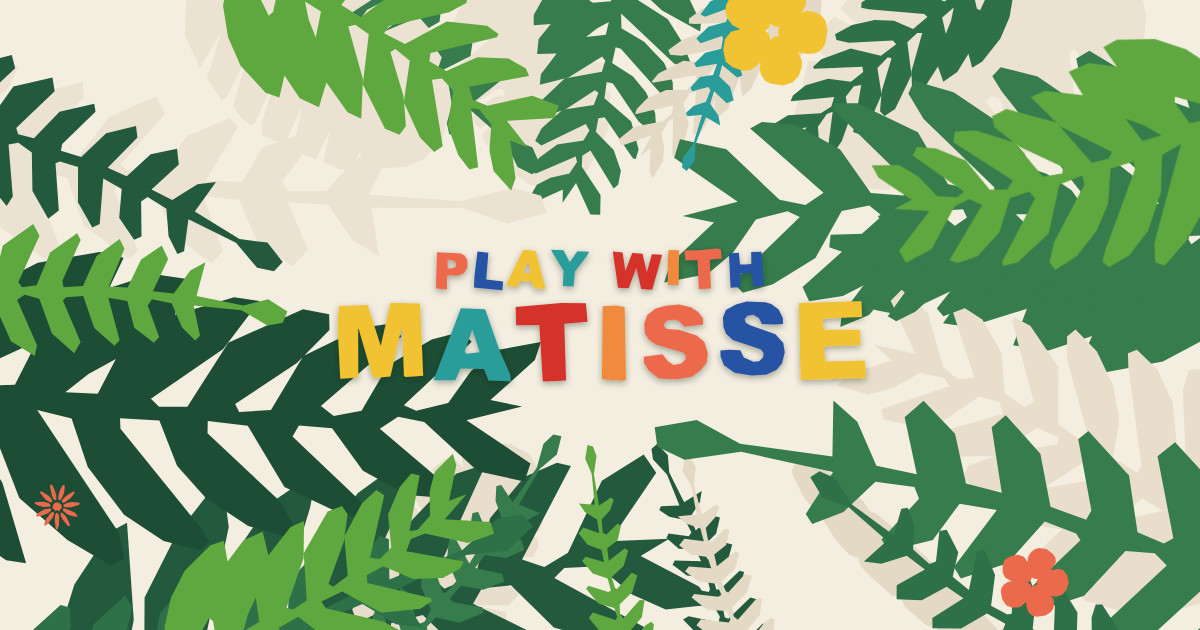
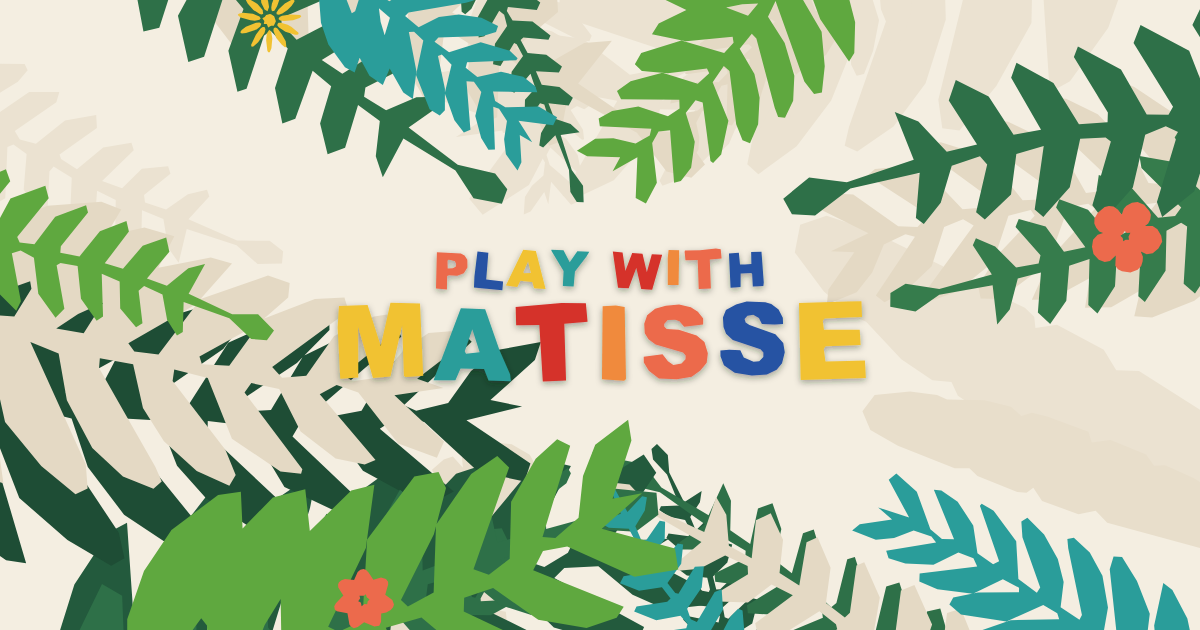
Play with Matisse: keep each intro leaf the same at every screen size
All intro pieces used to share one random sequence, and some draws only happened
for some screen sizes, so a key such as L1-0 became a different leaf (and a
different colour) on other screens and in the OG image. Each piece now reads its
own values from src/intro-pieces.js, recorded from the hand-tuned 1440x900 layout,
so that layout is unchanged and every key is the same leaf everywhere. The colours
seen in the editor are pinned in src/intro-layout.js, and editor saves pin them too.
OG image re-rendered.

diff --git a/play-with-matisse/src/intro-pieces.js b/play-with-matisse/src/intro-pieces.js
@@ -1,0 +1,41 @@
+// Fixed random values for every intro piece, recorded from the 1440 × 900 layout that was hand-tuned in
+// scripts/intro-editor.html. Each piece reads only its own list, so a piece is the same leaf (shape, angle,
+// length, width, flip, sway) at every screen size; only where it sits follows the screen.
+// Leaves: edge, angle, shape, length, reach, green, paper, sway duration, sway delay, sway angle, width, flip, spare.
+// Blossoms: edge, inset, shape, size, rotation, sway duration, sway delay, sway angle, spare. Layers: "off<n>".
+export default {
+  "off0": [0.6248957152],
+  "L0-0": [0.016394069, 0.6599052059, 0.3436766379, 0.6304582418, 0.5284409693, 0.7139804135, 0.5, 0.0224253053, 0.7014039333, 0.8461726424, 0.4660332776, 0.3720398727, 0.7428198592],
+  "L0-1": [0.7604583118, 0.4591073296, 0.7441075626, 0.6506668963, 0.4729891147, 0.8688313758, 0.0403097144, 0.0466259955, 0.0961075765, 0.9441514271, 0.5652425736, 0.2927845498, 0.9186590856],
+  "L0-2": [0.8758449464, 0.9498731154, 0.6271961699, 0.3464222888, 0.4084880007, 0.6310718644, 0.5, 0.3232283075, 0.8486157497, 0.4684933142, 0.6705325553, 0.2397124537, 0.7065972318],
+  "L0-3": [0.5895409165, 0.9253815406, 0.2617151102, 0.288456446, 0.075546219, 0.0962201697, 0.5, 0.8460584555, 0.8200596187, 0.5077368962, 0.3657409186, 0.7686793033, 0.4285137479],
+  "L0-4": [0.5542248783, 0.7309709489, 0.8885008625, 0.6930052203, 0.0461910937, 0.8889201437, 0.692146328, 0.4965624081, 0.0781402874, 0.7107119872, 0.6125637745, 0.4726612004, 0.4494613952],
+  "L0-5": [0.5264834964, 0.0297389296, 0.8960840977, 0.0152133543, 0.2738310732, 0.888764766, 0.3758649586, 0.7290672315, 0.4591372621, 0.8834318221, 0.7330632906, 0.5915810391, 0.5296245327],
+  "L0-6": [0.6623571769, 0.786808664, 0.1810128896, 0.5738626814, 0.9012227424, 0.4249058361, 0.9525729551, 0.0134028695, 0.376643921, 0.8466464342, 0.3712787237, 0.086157433, 0.5910055891],
+  "L0-7": [0.8206804472, 0.703952088, 0.6853974108, 0.2875022297, 0.0459868328, 0.7507892891, 0.1917111247, 0.4335965381, 0.0719523614, 0.5066242565, 0.2189206595, 0.8308477898, 0.3046859293],
+  "L0-8": [0.7312352809, 0.857239594, 0.1843579754, 0.6158458695, 0.4512333991, 0.0777581946, 0.953880765, 0.3687122825, 0.6866085953, 0.9247463688, 0.2689909495, 0.4797256226, 0.9549576489],
+  "L0-9": [0.1926097141, 0.2687331242, 0.3110721698, 0.4976379254, 0.2523688087, 0.0967426435, 0.5, 0.5282005819, 0.4426411362, 0.5282795723, 0.8528621211, 0.9272299036, 0.8011994374],
+  "L0-10": [0.5863321603, 0.390980354, 0.5372679229, 0.3850757133, 0.1362494221, 0.2639229072, 0.012723994, 0.6462397831, 0.6847196103, 0.4786303069, 0.3219712346, 0.819427086, 0.4729385024],
+  "L0-11": [0.8556216229, 0.0891021905, 0.9861141958, 0.2722771228, 0.4579951901, 0.6729113406, 0.5, 0.5204303998, 0.0317614791, 0.3503869451, 0.4811957888, 0.042631469, 0.901606807],
+  "off1": [0.3487885816],
+  "L1-0": [0.7711717784, 0.6967390666, 0.5891038161, 0.7995898176, 0.4161104241, 0.4441782839, 0.6609024575, 0.6159772812, 0.5638557682, 0.4756472111, 0.5956559444, 0.8745148107, 0.4055590576],
+  "L1-1": [0.3983307157, 0.9653635363, 0.9026498175, 0.5846790876, 0.7641629006, 0.4545637476, 0.9871820472, 0.3273272177, 0.2392347883, 0.3458434292, 0.3230551735, 0.1103820936, 0.2222291571],
+  "L1-2": [0.009823211, 0.2255045751, 0.3427613946, 0.3857833401, 0.7297901304, 0.1308702559, 0.5, 0.8639256211, 0.9509016254, 0.0703287059, 0.525682417, 0.4610726999, 0.0991240276],
+  "L1-3": [0.8465718252, 0.7499414065, 0.2282634436, 0.8709357723, 0.2542709613, 0.2360232428, 0.5, 0.5191895328, 0.8881204987, 0.0579335524, 0.0249167883, 0.6617771818, 0.9415578498],
+  "L1-4": [0.409956767, 0.8662091927, 0.7884443458, 0.7460515348, 0.7540241778, 0.3687501911, 0.5, 0.0075762027, 0.7495897028, 0.7586071561, 0.8669301672, 0.6588682551, 0.0883301154],
+  "L1-5": [0.2341359886, 0.8840810137, 0.1163936364, 0.4743423345, 0.4587457979, 0.4847391343, 0.5, 0.986868883, 0.2027616554, 0.4223621038, 0.5603413482, 0.7246156584, 0.4874914952],
+  "L1-6": [0.8050362382, 0.6484116511, 0.2932261201, 0.0803522833, 0.9587118335, 0.2074489971, 0.5, 0.1765282967, 0.3923648556, 0.200556061, 0.8064841542, 0.3081427373, 0.5429832607],
+  "L1-7": [0.1377467632, 0.4229343771, 0.6200654749, 0.8438391397, 0.8607933067, 0.3020410873, 0.5, 0.1446252896, 0.7139651377, 0.8335720212, 0.0616651485, 0.7096508923, 0.872186475],
+  "L1-8": [0.2537406525, 0.7263892645, 0.5486296958, 0.9944018726, 0.3909677737, 0.1340218291, 0.0747000712, 0.8019326436, 0.0553148007, 0.1496176983, 0.2260044343, 0.0680819855, 0.1781863859],
+  "off2": [0.9156342759],
+  "L2-0": [0.5508822333, 0.9081481674, 0.8644869863, 0.0722790228, 0.7685407628, 0.4076122881, 0.5, 0.4670127532, 0.1234049846, 0.1107080642, 0.781260134, 0.5079783229, 0.3705790529],
+  "L2-1": [0.7099243458, 0.1864106862, 0.4716164509, 0.3614586827, 0.2034124485, 0.7868982307, 0.5, 0.8318357153, 0.4538394315, 0.6413320487, 0.4922705146, 0.2347555601, 0.4055960237],
+  "L2-2": [0.542436345, 0.7813551736, 0.1209279483, 0.0814813247, 0.8238608958, 0.3051606123, 0.5, 0.0071619328, 0.9001438573, 0.6735097126, 0.9527959418, 0.2181239836, 0.3361857226],
+  "L2-3": [0.2510046379, 0.8714191595, 0.5654196143, 0.6873457569, 0.3783507145, 0.8164778701, 0.5, 0.4134681975, 0.6805555287, 0.2743400044, 0.8508530618, 0.1399279174, 0.648342863],
+  "L2-4": [0.3690836134, 0.6607471567, 0.0438419858, 0.2723516645, 0.0135326365, 0.7237096322, 0.5, 0.9500543515, 0.3180939092, 0.66165863, 0.1409732681, 0.7414848716, 0.2535435825],
+  "L2-5": [0.0241630815, 0.1079161959, 0.9762054645, 0.7508065267, 0.6165161931, 0.9322027599, 0.5, 0.7969415593, 0.2139935354, 0.5673783901, 0.7228719657, 0.6541632945, 0.8006925473],
+  "L2-6": [0.5718650997, 0.9345227422, 0.055074183, 0.9997810025, 0.8792234233, 0.638273478, 0.5, 0.2274694876, 0.4425834748, 0.3156928562, 0.848260497, 0.992622453, 0.5593489169],
+  "B0": [0.3498876141, 0.0412709489, 0.3959049128, 0.301031678, 0.1856587331, 0.9135513506, 0.9169997659, 0.393945622, 0.7554795474],
+  "B1": [0.2389234554, 0.6693106049, 0.805386299, 0.4216162937, 0.1735589684, 0.3474769932, 0.4757307568, 0.0156029051, 0.0930441543],
+  "B2": [0.3613132194, 0.3699707314, 0.0464909521, 0.2505338339, 0.768368799, 0.8416927534, 0.2134854435, 0.6669620574, 0.2232821765]
+};

diff --git a/play-with-matisse/src/intro.js b/play-with-matisse/src/intro.js
@@ -3,8 +3,9 @@
 import { icon } from "./icons.js";
 import { glyphShape } from "./shapes.js";
 import { store } from "./store.js";
+import PIECES from "./intro-pieces.js";
 import savedLayout from "./intro-layout.js";
-import { $, TAU, reduceMotion, rng } from "./util.js";
+import { $, TAU, hashStr, reduceMotion, rng } from "./util.js";
 
 const NS = "http://www.w3.org/2000/svg";
 // Mostly palm and fern fronds. Broad leaves (monstera, banana) only grow in the back layer, where they add
@@ -119,6 +120,15 @@ function roomTo(e, x, y, ang) {
   return t > 0 ? t : Infinity;
 }
 
+// Each piece draws from its own recorded list (then its own seeded stream if it ever needs more), so changing
+// the screen size never changes which leaf a key is.
+function pieceRand(key) {
+  const rec = PIECES[key] || [],
+    more = rng(hashStr(key) ^ 0x51ed);
+  let i = 0;
+  return () => (i < rec.length ? rec[i++] : more());
+}
+
 // Builds the whole forest into `svg` for a vw × vh screen. Every piece has a stable key (leaves "L<layer>-<i>",
 // blossoms "B<i>") so hand-tuned colours and stacking from intro-layout.js (made in scripts/intro-editor.html)
 // land on the same piece every time. Returns the pieces, the title letters and the stacking order.
@@ -135,8 +145,7 @@ export function buildForest(svg, vw, vh, play, layout = savedLayout) {
   bg.setAttribute("fill", "#F4EEE1");
   bg.id = "forestBg";
   svg.append(bg);
-  const R = rng(20251122),
-    perim = 2 * (vw + vh);
+  const perim = 2 * (vw + vh);
   const layersEl = document.createElementNS(NS, "g");
   svg.append(layersEl);
   const title = buildTitle(svg, vw, vh, play);
@@ -155,8 +164,9 @@ export function buildForest(svg, vw, vh, play, layout = savedLayout) {
     order = []; // default stacking, back to front
   LAYERS.forEach((L, li) => {
     if (li === 2) order.push("title");
-    const off = R();
+    const off = pieceRand("off" + li)();
     for (let i = 0; i < L.n; i++) {
+      const R = pieceRand(`L${li}-${i}`);
       const [ex, ey, side] = edgePoint(off + (i + R() * 0.3) / L.n);
       const toC = Math.atan2(cy - ey, cx - ex),
         ang = toC + (R() - 0.5) * 0.4;
@@ -181,7 +191,8 @@ export function buildForest(svg, vw, vh, play, layout = savedLayout) {
       // Broad leaves, back-row leaves that reach into the title and middle-row leaves that run deep into it, are
       // cut from paper just darker than the ground: they keep the forest full without fighting the letters.
       const reaches = li < 2 && roomTo(title.core, bx, by, ang) < len * (li === 0 ? 0.95 : 0.72);
-      if (BROAD.has(id) || reaches) color = PAPER_TONES[Math.floor(R() * PAPER_TONES.length)];
+      const paper = PAPER_TONES[Math.floor(R() * PAPER_TONES.length)]; // always drawn, so later values never shift
+      if (BROAD.has(id) || reaches) color = paper;
       const item = addLeaf(`L${li}-${i}`, a, bx, by, ang, s, color, li, R, cx);
       pieces.push(item);
       order.push(item.key);
@@ -189,6 +200,7 @@ export function buildForest(svg, vw, vh, play, layout = savedLayout) {
     }
     // a few blossoms tucked between the front leaves, spread around the edge
     for (let i = 0; i < L.blooms; i++) {
+      const R = pieceRand(`B${i}`);
       const [ex, ey] = edgePoint(off + (i + 0.5 + (R() - 0.5) * 0.3) / L.blooms);
       const t = 0.06 + R() * 0.1,
         x = ex + (cx - ex) * t,

diff --git a/play-with-matisse/src/intro-layout.js b/play-with-matisse/src/intro-layout.js
@@ -2,16 +2,37 @@
 // colors: piece key → fill. z: piece key → stacking rank (higher is in front); "title" is the cut-paper title.
 export default {
   "colors": {
+    "B0": "#F1C232",
+    "B1": "#EC6A4C",
     "B2": "#EC6A4C",
+    "L0-0": "#235A3D",
+    "L0-1": "#E8DECB",
     "L0-10": "#E8DECB",
     "L0-11": "#E4D9C4",
+    "L0-2": "#235A3D",
+    "L0-3": "#1E4D35",
+    "L0-4": "#EBE2D1",
+    "L0-5": "#E4D9C4",
     "L0-6": "#EBE2D1",
     "L0-7": "#E4D9C4",
     "L0-8": "#EBE2D1",
     "L0-9": "#367C4C",
+    "L1-0": "#E4D9C4",
+    "L1-1": "#EBE2D1",
+    "L1-2": "#2E7048",
+    "L1-3": "#2E7048",
+    "L1-4": "#2E7048",
     "L1-5": "#E4D9C4",
+    "L1-6": "#2E7048",
+    "L1-7": "#2E7048",
     "L1-8": "#EBE2D1",
-    "L2-3": "#2E7048"
+    "L2-0": "#5FA83F",
+    "L2-1": "#2A9D9A",
+    "L2-2": "#5FA83F",
+    "L2-3": "#2E7048",
+    "L2-4": "#2A9D9A",
+    "L2-5": "#2A9D9A",
+    "L2-6": "#5FA83F"
   },
   "z": {
     "B0": 290.0,

diff --git a/play-with-matisse/scripts/intro-editor.js b/play-with-matisse/scripts/intro-editor.js
@@ -75,6 +75,8 @@ function pick(e) {
 async function save() {
   const b = $("#saveBtn");
   b.disabled = true;
+  // Pin every colour you can see, defaults included, so all screen sizes (and the OG image) match the editor.
+  for (const p of built.pieces) layout.colors[p.key] ||= p.color.toUpperCase();
   try {
     const r = await fetch("/__save/intro-layout", { method: "POST", headers: { "Content-Type": "application/json" }, body: JSON.stringify(layout) });
     const out = await r.json();
